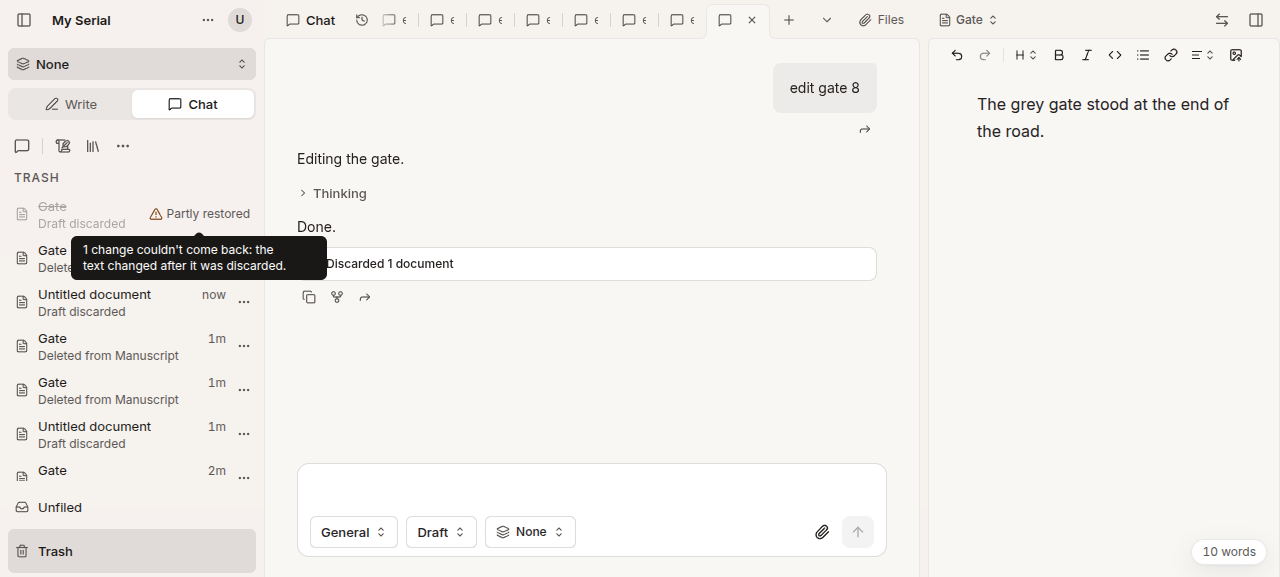
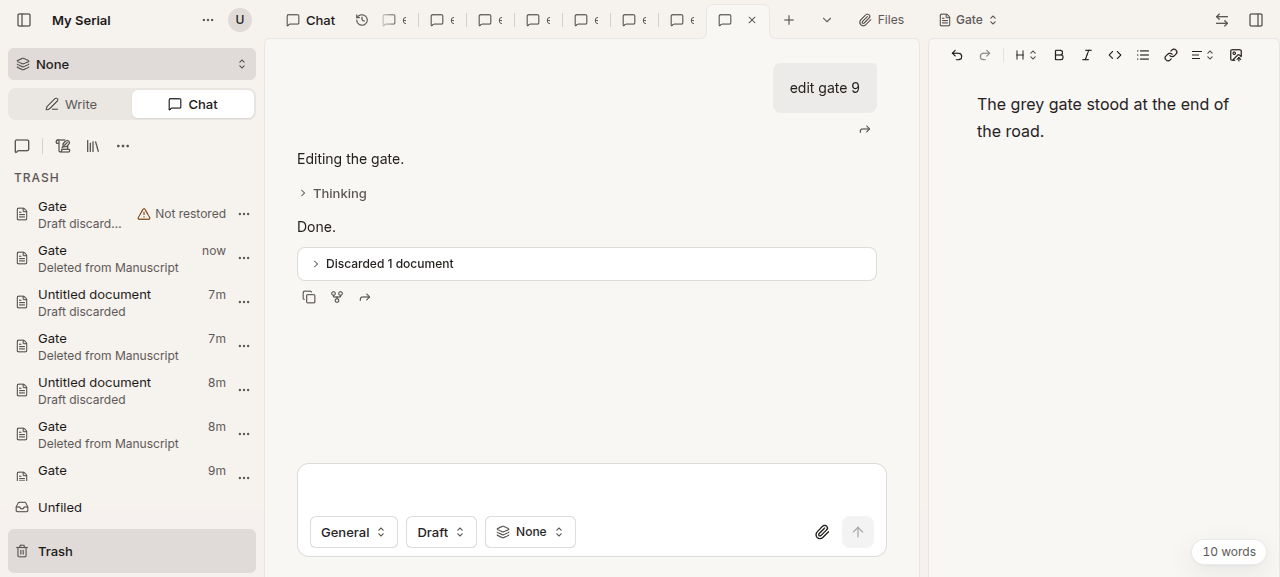
Give a restore that left everything out its own state, so Trash and the editor pill stop reading it as restored (#1733)

Changed region(s): [[0.0312, 0.3432, 0.2812, 0.5303], [0.0312, 0.6551, 0.1562, 0.7799]]

diff --git a/apps/app/src/features/draft-review/discard-restores.ts b/apps/app/src/features/draft-review/discard-restores.ts
@@ -15,6 +15,8 @@ export type DiscardRestoreState =
   | { kind: "restoring" }
   /** `branchId` absent: it was already back. */
   | { kind: "restored"; branchId?: string; leftOut: number }
+  /** Nothing came back: Live's text was edited over every change. The entry stays in Trash. */
+  | { kind: "left_out"; leftOut: number }
   | { kind: "returned"; why: RestoreReturned }
   | { kind: "failed" };
 
@@ -62,12 +64,14 @@ export class DiscardRestores {
 }
 
 const stateOf = (answer: RestoreAnswer): DiscardRestoreState =>
-  answer.answer === "ok" || answer.answer === "gone"
-    ? {
-        kind: "restored",
-        leftOut: answer.leftOut ?? 0,
-        ...(answer.branchId ? { branchId: answer.branchId } : {}),
-      }
-    : answer.answer === "returned" && answer.why
-      ? { kind: "returned", why: answer.why }
-      : { kind: "failed" };
+  answer.answer === "gone" && answer.leftOut
+    ? { kind: "left_out", leftOut: answer.leftOut }
+    : answer.answer === "ok" || answer.answer === "gone"
+      ? {
+          kind: "restored",
+          leftOut: answer.leftOut ?? 0,
+          ...(answer.branchId ? { branchId: answer.branchId } : {}),
+        }
+      : answer.answer === "returned" && answer.why
+        ? { kind: "returned", why: answer.why }
+        : { kind: "failed" };

diff --git a/apps/app/src/features/project/shell/sidebar/TrashDiscardRow.tsx b/apps/app/src/features/project/shell/sidebar/TrashDiscardRow.tsx
@@ -61,12 +61,6 @@ export function TrashDiscardRow({
               sentence={t`Undo didn't go through. Try again.`}
               onAction={onUndo}
             />
-          ) : !onUndo && state.leftOut > 0 ? (
-            <RowWord
-              tone="warning"
-              word={<Trans>Partly restored</Trans>}
-              sentence={leftOutSentence(state.leftOut)}
-            />
           ) : !onUndo ? (
             // Restored elsewhere first: nothing here can put it back.
             <RowWord tone="done" word={<Trans>Restored</Trans>} sentence={t`Restored just now.`} />
@@ -115,6 +109,12 @@ export function TrashDiscardRow({
             tone="warning"
             word={<Trans>Not restored</Trans>}
             sentence={restoreReturnedSentence(state.why)}
+          />
+        ) : state?.kind === "left_out" ? (
+          <RowWord
+            tone="warning"
+            word={<Trans>Not restored</Trans>}
+            sentence={leftOutSentence(state.leftOut)}
           />
         ) : null
       }

diff --git a/apps/app/src/features/editor/InTrashStatus.tsx b/apps/app/src/features/editor/InTrashStatus.tsx
@@ -4,7 +4,7 @@ import { Trans } from "@lingui/react/macro";
 import { type ReactNode, useEffect, useState } from "react";
 import { useTrashDiscards } from "@/client/query/useDocumentTrash";
 import { Button } from "@/components/ui/button";
-import { restoreReturnedSentence } from "@/features/draft-review/CommandNotice";
+import { leftOutSentence, restoreReturnedSentence } from "@/features/draft-review/CommandNotice";
 import { useDocumentTrashRestore } from "@/features/project/context/DocumentTrashRestoreProvider";
 import { useRestoreDiscard } from "@/features/project/context/use-restore-discard";
 
@@ -67,6 +67,7 @@ function DraftInTrash({
       </Pill>
     );
   if (state?.kind === "returned") return <Pill>{restoreReturnedSentence(state.why)}</Pill>;
+  if (state?.kind === "left_out") return <Pill>{leftOutSentence(state.leftOut)}</Pill>;
   return (
     <Pill
       action={{

diff --git a/packages/contracts/src/branches/review.ts b/packages/contracts/src/branches/review.ts
@@ -218,11 +218,11 @@ export type UndoDiscardResult = {
   restored: number;
   /** Newer drafts of the same documents this restore closed, now members of its own entry. */
   swapped: number;
-  /** What the Discard held that could not come back: a node or document that has been purged. */
+  /** What the Discard held that could not come back: a purged node or document, or the changes of a draft whose Live text was edited since. */
   leftOut: number;
   /**
    * Why `restored` is 0: `returned` (the draft's owner is closed), `already` (a restore took the
-   * members), `left_out purged` (the entry is gone from Trash or what it held was purged).
+   * members), `left_out purged` (the entry is gone from Trash or what it held was purged), `left_out changed_since` (Live's text was edited over the draft; it stays closed).
    */
   settled?: Settlement[];
 };

diff --git a/apps/app/src/features/draft-review/draft-notices.ts b/apps/app/src/features/draft-review/draft-notices.ts
@@ -695,7 +695,8 @@ export class DraftNotices {
     const pressed = this.pressed.get(id);
     const returned = restores.find((state) => state?.kind === "returned");
     const leftOut = restores.reduce(
-      (sum, state) => sum + (state?.kind === "restored" ? state.leftOut : 0),
+      (sum, state) =>
+        sum + (state?.kind === "restored" || state?.kind === "left_out" ? state.leftOut : 0),
       0,
     );
     const out = this.outstanding(parts);

diff --git a/apps/app/src/features/draft-review/.context/draft-review.md b/apps/app/src/features/draft-review/.context/draft-review.md
@@ -371,8 +371,7 @@ the Work's current branch), the one command Trash's Restore and the editor's Res
 Each Discard's restore has one progress, whatever sent it (`DiscardRestores` on the command
 owner): the notice, Trash's row and the editor's pill all read it, so a restore from Trash ends
 the notice, and a notice's refused Undo clears once a later restore lands. `leftOut` stays on the
-notice as what couldn't come back (a purged node, or a draft whose Live text was edited since: Trash's row says
-"Partly restored" and the same sentence when nothing came back), and a restore answered with nothing done says why ("Work was
+notice as what couldn't come back (a purged node, or a draft whose Live text was edited since: nothing came back is its own restore state, `left_out`: Trash's row says "Not restored" with the same sentence and stays restorable, the editor pill shows the sentence), and a restore answered with nothing done says why ("Work was
 closed.", "Its chat is in Trash.", "Gone from Trash."). No Discard asks first. A Discard row Trash shows restored has Undo, a new Discard of everything
 the entry took: its drafts' documents and every node its tree half settled (`tree.nodes`), so
 one that only moved, renamed or deleted goes back too. A Discard of a
